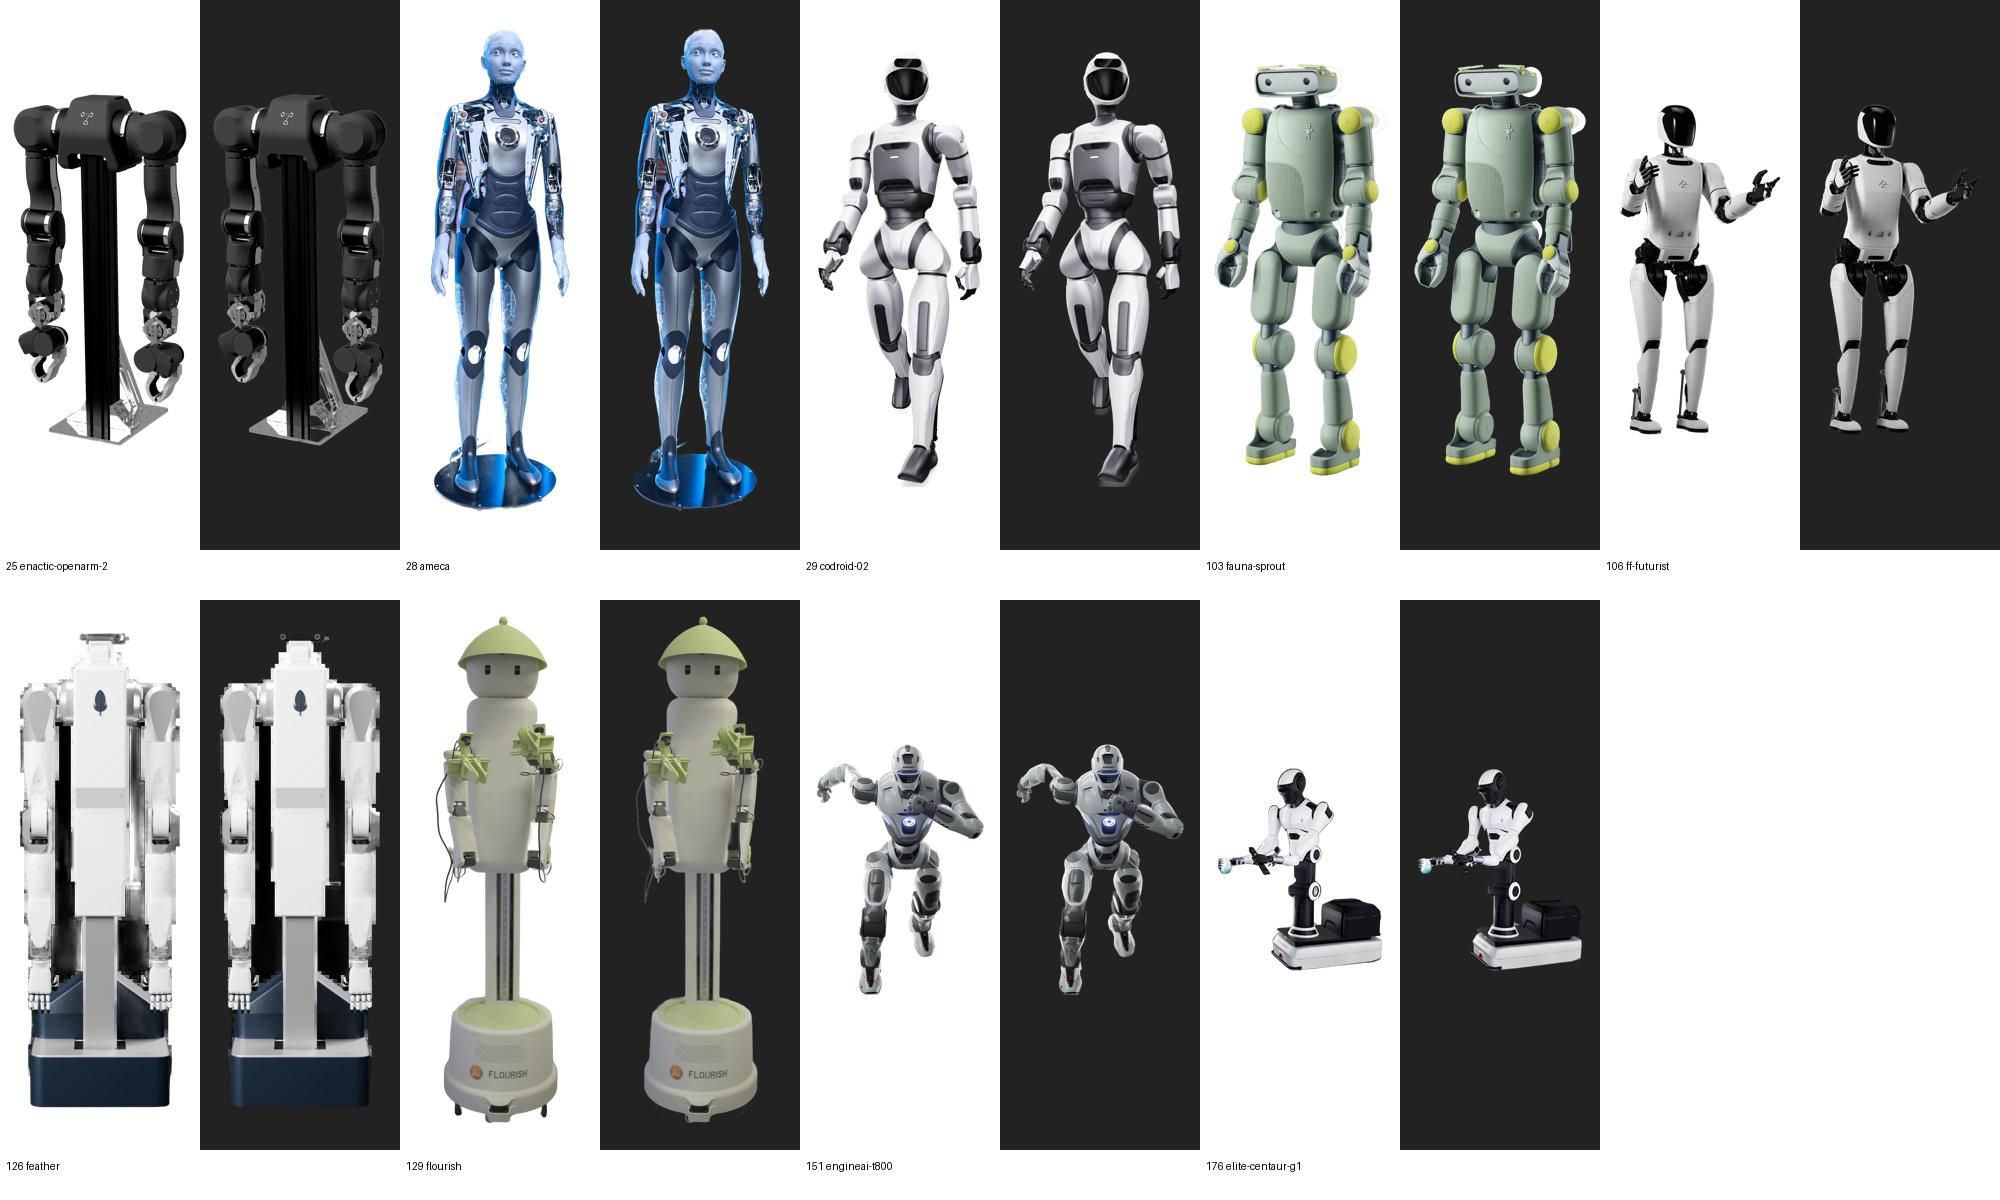
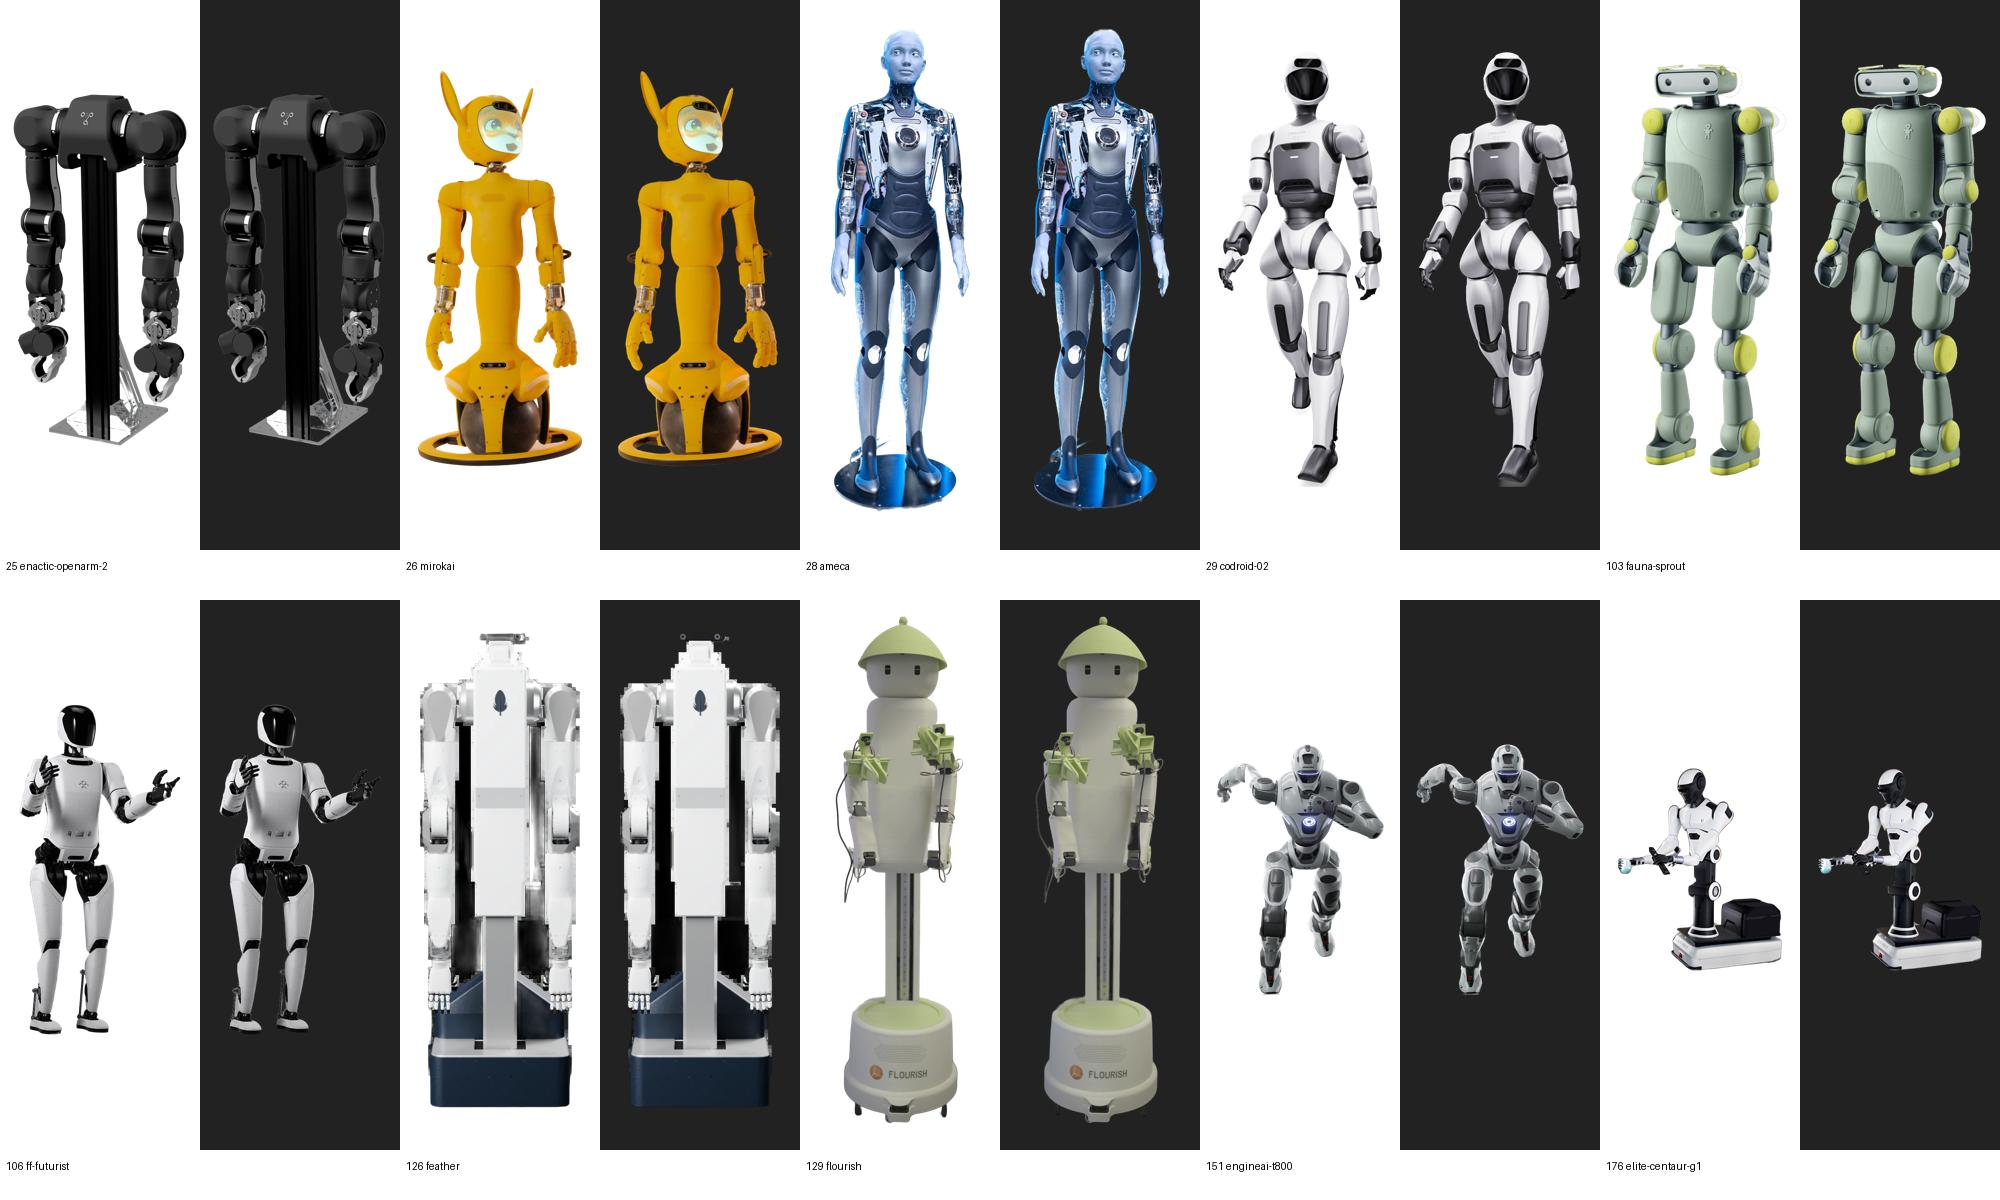
Add Mirokai source after authorised manufacturer notification

diff --git a/ops/media/intake-ef-2026-11-27/batch-06/README.md b/ops/media/intake-ef-2026-11-27/batch-06/README.md
@@ -1,7 +1,9 @@
 # E/F batch06 source intake
 
-Nine complete manufacturer robots/platforms prepared by Codex with alpha-only masks. All visible RGB pixels exactly match their original coordinates. Native resolution and20px transparent padding. Original, mask, PNG, coordinates, identity context and SHA256 accompany every source. Review independently before integration; source transport only, do not merge this branch wholesale.
+Ten complete manufacturer robots/platforms prepared by Codex with alpha-only masks. All visible RGB pixels exactly match their original coordinates. Native resolution and20px transparent padding. Original, mask, PNG, coordinates, identity context and SHA256 accompany every source. Review independently before integration; source transport only, do not merge this branch wholesale.
 
 The original48 presentations must remain unchanged. No master, D1, Worker, pricing, API import or other-letter changes. Ameca250x769, Elite444x539 and Futurist375x728 have modest native resolution and must not be upscaled or hallucinated. OpenArm is the complete mounted bimanual module, not a full humanoid. Flourish is the manufacturer robot without a confirmed model name. Rendering source is not proof of actual operation.
 
-Scope exceptions after reviewed sources: Mirokai technically ready but media-kit notification awaiting user authorisation; no permission by elapsed time. GR-1 team source labels GR-1 but34DoF conflicts with standard44actuators / separateGR-1L; do not assign it to standard. Phantom current kit shows MKII, not MK1. Eden official website has no identifiable model/body. These are limits of reviewed sources, not claims about all possible sources.
+Scope exceptions after reviewed sources: GR-1 team source labels GR-1 but34DoF conflicts with standard44actuators / separateGR-1L; do not assign it to standard. Phantom current kit shows MKII, not MK1. Eden official website has no identifiable model/body. These are limits of reviewed sources, not claims about all possible sources.
+
+Mirokai added after Javier expressly authorised the requested notification. Codex submitted it through the official contact form and observed the success message and cleared form. Exact gallery credit must appear as Enchanted Tools - Mirokaï robot. No contact details are stored in this source package.
